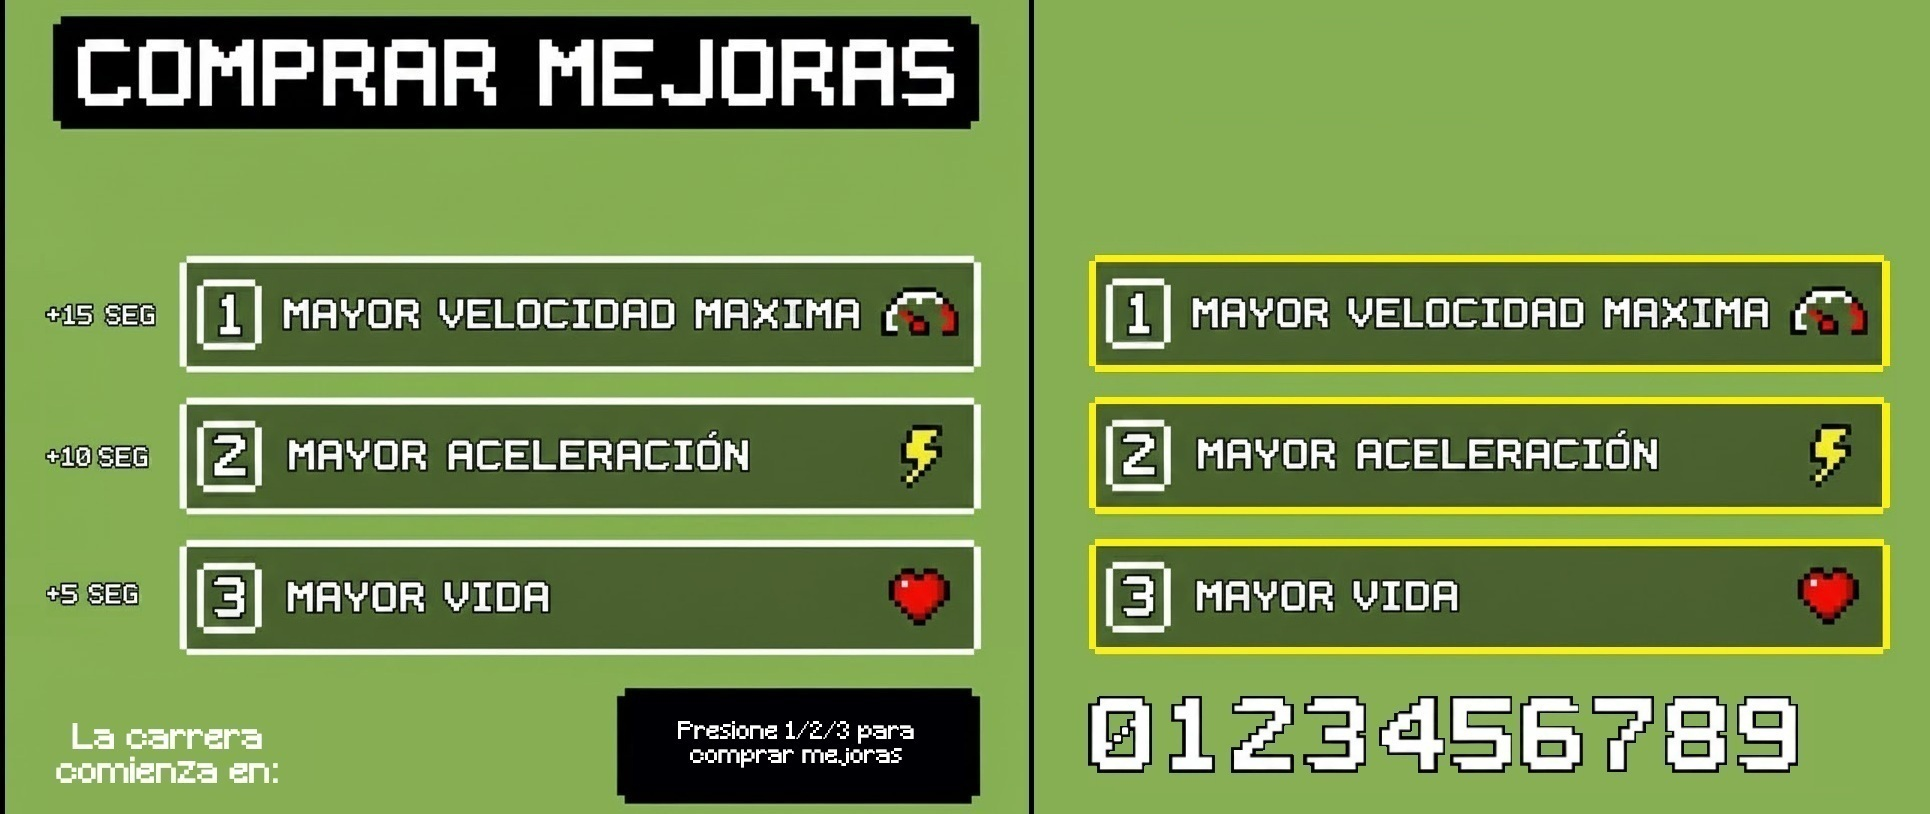
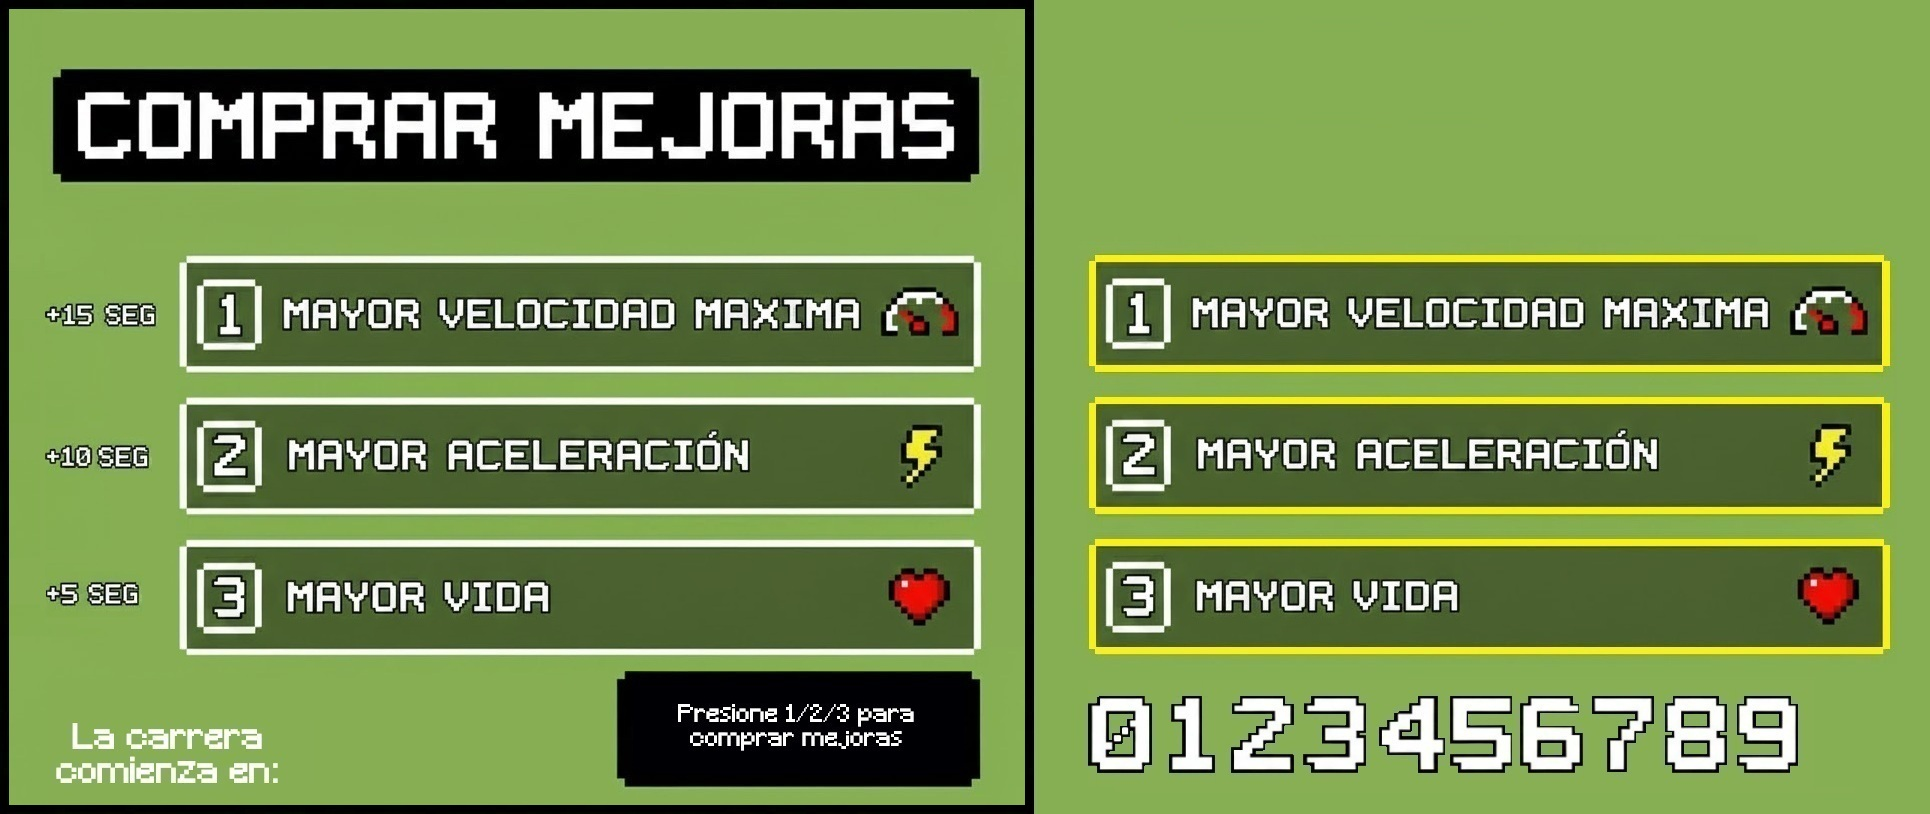
Mejoro ventana de market

Changed region(s): [[0.0, 0.0, 0.5596, 0.2457], [0.0, 0.7985, 0.5596, 1.0]]

diff --git a/client/game_window.cpp b/client/game_window.cpp
@@ -373,13 +373,12 @@ void GameWindow::drawMarket(
     bool boughtAccel,
     bool boughtHealth
 ) {
-    int texW = 1034;
+    int texW = 1034;           
     int texH = market.GetHeight();
 
-    float scale = std::min(
-        viewW / static_cast<float>(texW),
-        viewH / static_cast<float>(texH)
-    );
+    int squareSide = std::min(viewW, viewH);
+
+    float scale = squareSide / static_cast<float>(std::max(texW, texH));
 
     int dstW = static_cast<int>(std::lround(texW * scale));
     int dstH = static_cast<int>(std::lround(texH * scale));
@@ -410,7 +409,6 @@ void GameWindow::drawMarket(
     Rect src_accel_bought   (1088, 396, 802, 118);
     Rect src_health_bought  (1088, 538, 802, 118);
 
-
     if (boughtSpeed) {
         renderer.Copy(market, src_speed_bought, toDst(slot_speed_unbought));
     }
@@ -423,6 +421,7 @@ void GameWindow::drawMarket(
         renderer.Copy(market, src_health_bought, toDst(slot_health_unbought));
     }
 }
+
 
 void GameWindow::drawMarketCountdown(Renderer& renderer,
                                      Texture& market,
@@ -438,10 +437,9 @@ void GameWindow::drawMarketCountdown(Renderer& renderer,
     int texW = 1034;
     int texH = market.GetHeight();
 
-    float scale = std::min(
-        viewW / static_cast<float>(texW),
-        viewH / static_cast<float>(texH)
-    );
+    int squareSide = std::min(viewW, viewH);
+
+    float scale = squareSide / static_cast<float>(std::max(texW, texH));
 
     int dstW = static_cast<int>(std::lround(texW * scale));
     int dstH = static_cast<int>(std::lround(texH * scale));
@@ -470,6 +468,7 @@ void GameWindow::drawMarketCountdown(Renderer& renderer,
     renderer.Copy(market, src_tens,  dst_tens);
     renderer.Copy(market, src_units, dst_units);
 }
+
 
 void GameWindow::drawUpgradesBar(Renderer& renderer,
                                  Texture& hud,
